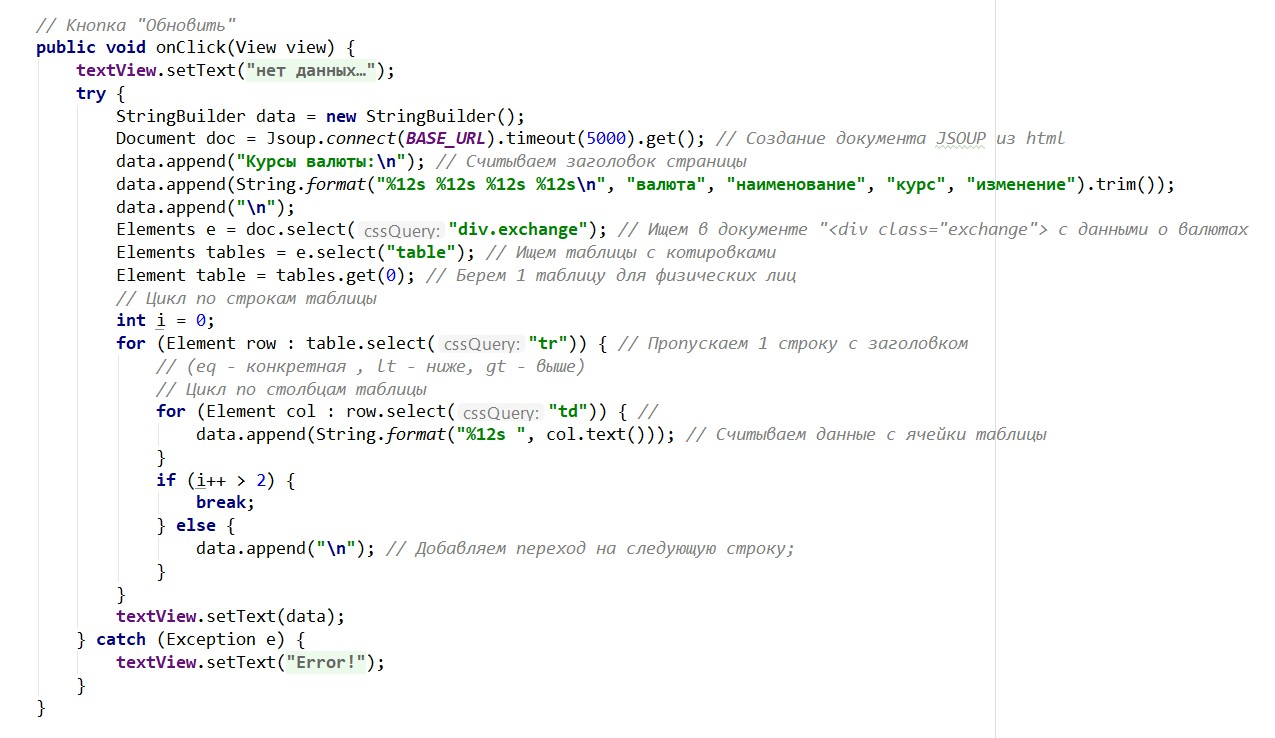
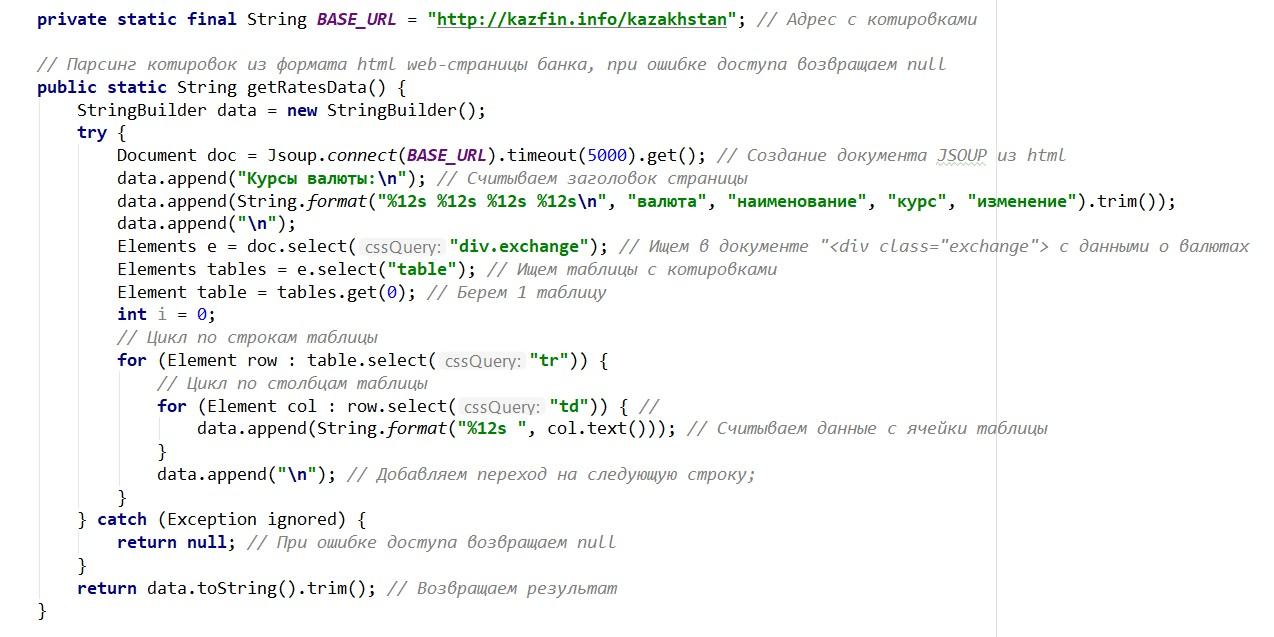
update

diff --git a/TSN_DEMO_08_JSOUP_MICRO/src/main/java/kz/talipovsn/jsoup_micro/MainActivity.java b/TSN_DEMO_08_JSOUP_MICRO/src/main/java/kz/talipovsn/jsoup_micro/MainActivity.java
@@ -45,22 +45,19 @@ public class MainActivity extends AppCompatActivity {
             data.append("\n");
             Elements e = doc.select("div.exchange"); // Ищем в документе "<div class="exchange"> с данными о валютах
             Elements tables = e.select("table"); // Ищем таблицы с котировками
-            Element table = tables.get(0); // Берем 1 таблицу для физических лиц
-            // Цикл по строкам таблицы
+            Element table = tables.get(0); // Берем 1 таблицу
             int i = 0;
-            for (Element row : table.select("tr")) { // Пропускаем 1 строку с заголовком
-                // (eq - конкретная , lt - ниже, gt - выше)
+            // Цикл по строкам таблицы
+            for (Element row : table.select("tr")) { // все строки)
+//          for (Element row : table.select("tr:lt(3)")) { // чтение 3 строк (eq - конкретная строка ,
+//          lt - ниже, gt - выше)
                 // Цикл по столбцам таблицы
                 for (Element col : row.select("td")) { //
                     data.append(String.format("%12s ", col.text())); // Считываем данные с ячейки таблицы
                 }
-                if (i++ > 2) {
-                    break;
-                } else {
-                    data.append("\n"); // Добавляем переход на следующую строку;
-                }
+                data.append("\n"); // Добавляем переход на следующую строку;
             }
-            textView.setText(data);
+            textView.setText(data.toString().trim());
         } catch (Exception e) {
             textView.setText(R.string.error);
         }

diff --git a/TSN_DEMO_08_JSOUP_Rates/src/main/java/kz/talipovsn/rates/RatesReader.java b/TSN_DEMO_08_JSOUP_Rates/src/main/java/kz/talipovsn/rates/RatesReader.java
@@ -20,25 +20,20 @@ public class RatesReader {
             data.append("\n");
             Elements e = doc.select("div.exchange"); // Ищем в документе "<div class="exchange"> с данными о валютах
             Elements tables = e.select("table"); // Ищем таблицы с котировками
-            Element table = tables.get(0); // Берем 1 таблицу для физических лиц
-            // Цикл по строкам таблицы
+            Element table = tables.get(0); // Берем 1 таблицу
             int i = 0;
-            for (Element row : table.select("tr")) { // Пропускаем 1 строку с заголовком (eq - конкретная , lt - ниже, gt - выше)
+            // Цикл по строкам таблицы
+            for (Element row : table.select("tr")) {
                 // Цикл по столбцам таблицы
                 for (Element col : row.select("td")) { //
                     data.append(String.format("%12s ", col.text())); // Считываем данные с ячейки таблицы
                 }
-                if (i++ > 2) {
-                    break;
-                } else {
-                    data.append("\n"); // Добавляем переход на следующую строку;
-                }
+                data.append("\n"); // Добавляем переход на следующую строку;
             }
-
         } catch (Exception ignored) {
             return null; // При ошибке доступа возвращаем null
         }
-        return data.toString(); // Возвращаем результат
+        return data.toString().trim(); // Возвращаем результат
     }
 
 }
